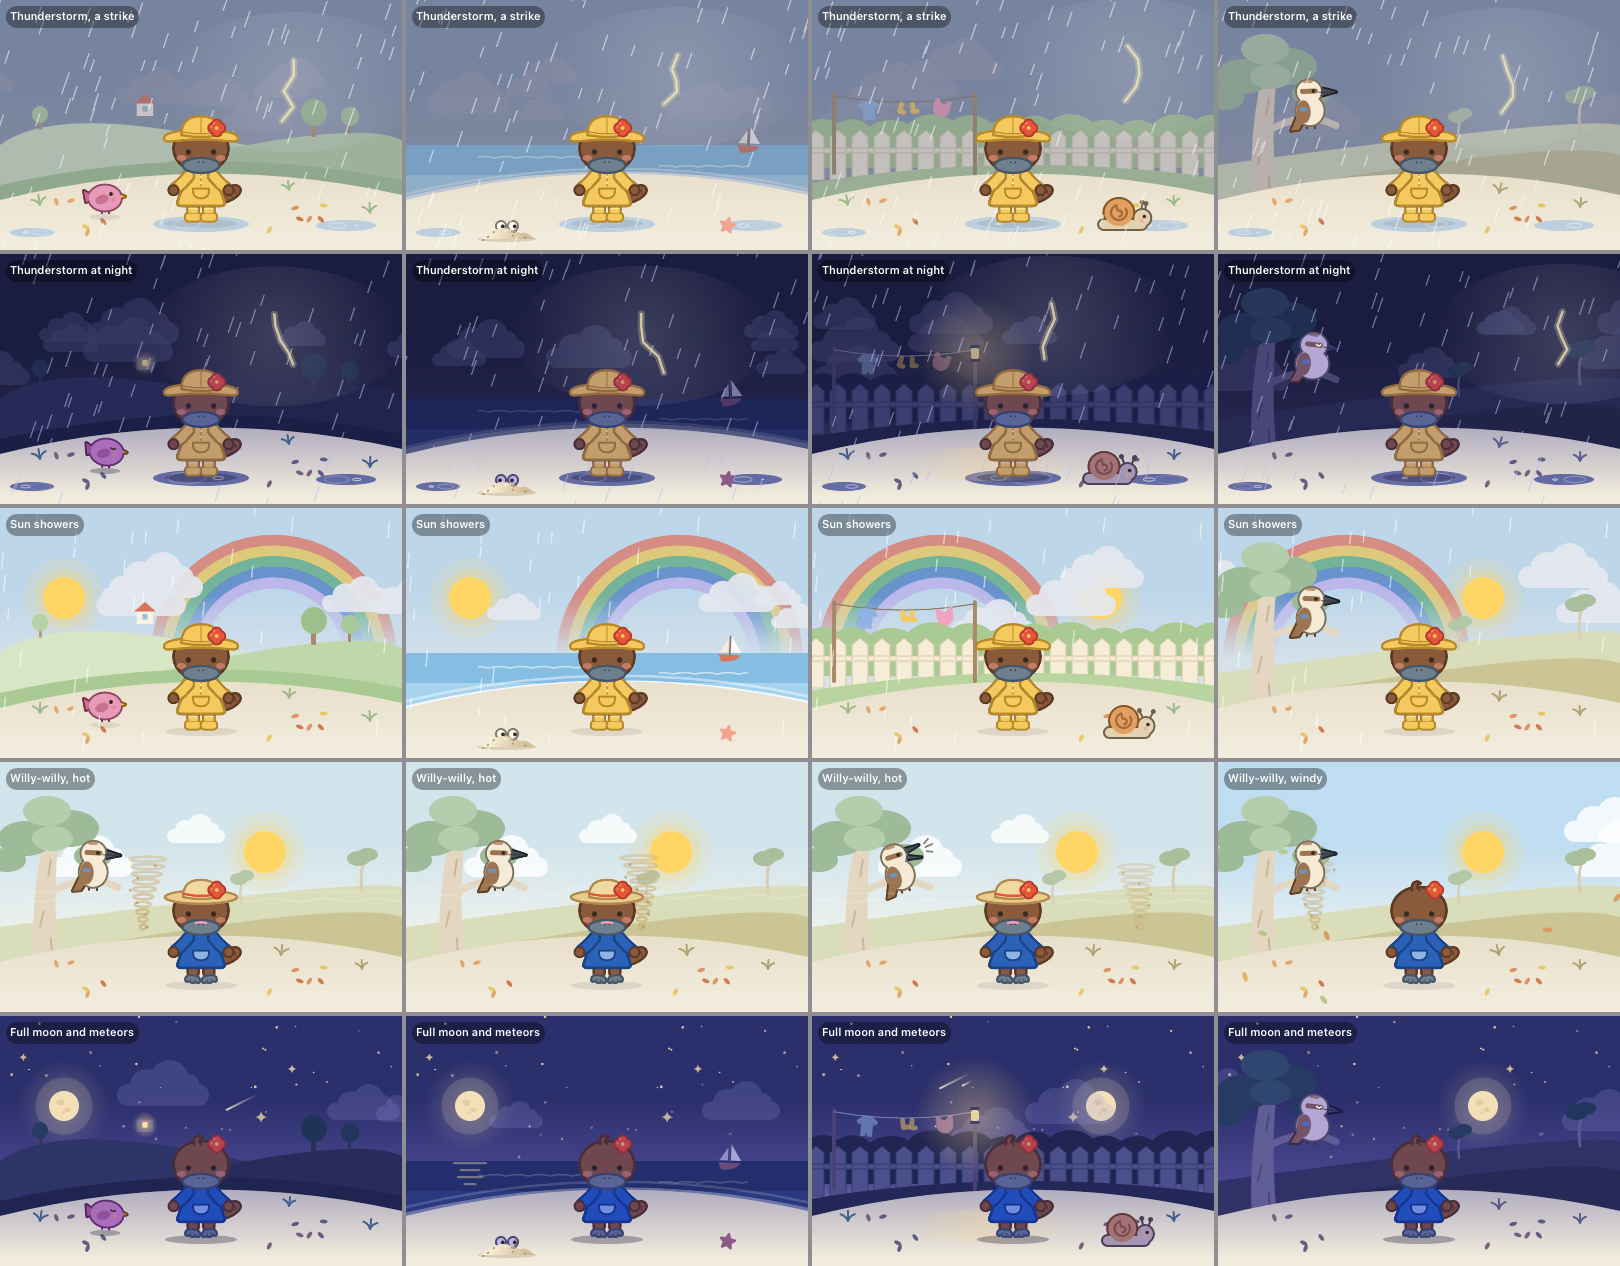
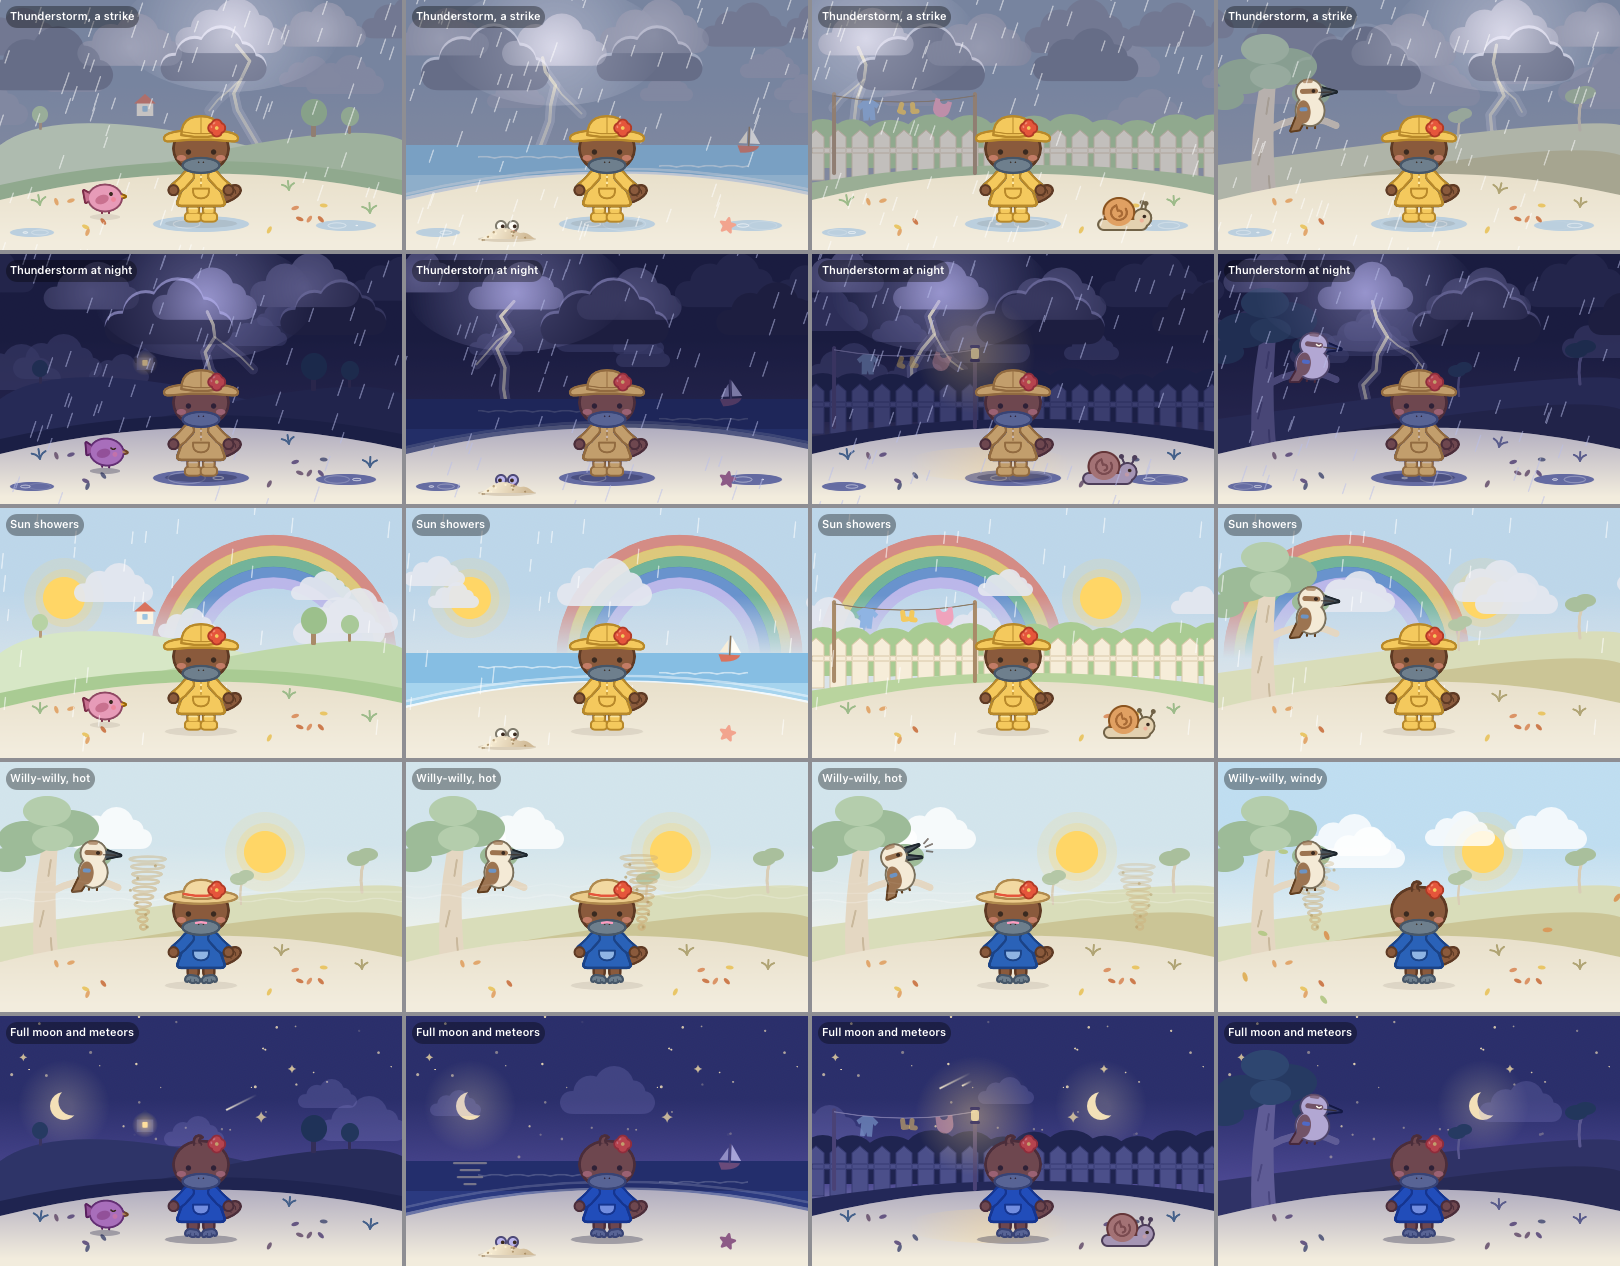
Lightning, second pass: storm clouds in layers that light up, a bolt from under them with a fork

diff --git a/app/Puggle/Design/Weather.swift b/app/Puggle/Design/Weather.swift
@@ -253,29 +253,6 @@ struct WeatherFront: View {
                     streaks.addLine(to: CGPoint(x: x - length * lean, y: y + length))
                 }
                 context.stroke(streaks, with: .color(colour), style: StrokeStyle(lineWidth: 1.4, lineCap: .round))
-                if heavy {
-                    // Lightning a long way off: a soft glow in the clouds and a small bolt in it, never a flash of the
-                    // whole screen (Tom, 17 November 2026). Each strike is in its own place and its own shape.
-                    let strike = Thunder.strike(at: t)
-                    if strike.glow > 0 {
-                        var random = SeededRandom(UInt64(strike.number) &* 7_717 &+ 13)
-                        let centre = CGPoint(x: size.width * random.range(0.58, 0.86), y: size.height - sceneHeight * random.range(0.66, 0.74))
-                        context.fill(Path(ellipseIn: CGRect(x: centre.x - 130, y: centre.y - 70, width: 260, height: 140)),
-                                     with: .radialGradient(Gradient(colors: [Color.white.opacity(strike.glow * 0.22), Color.white.opacity(0)]),
-                                                           center: centre, startRadius: 0, endRadius: 130))
-                        // The bolt: down from the cloud base to the far hills, in four zigzags.
-                        var bolt = Path()
-                        var point = CGPoint(x: centre.x, y: centre.y - 22)
-                        bolt.move(to: point)
-                        for step in 0..<4 {
-                            point = CGPoint(x: point.x + CGFloat(random.range(-11, 11)) + (step.isMultiple(of: 2) ? 5 : -5), y: point.y + CGFloat(random.range(11, 16)))
-                            bolt.addLine(to: point)
-                        }
-                        let yellow = Color(hex: 0xFFF1B8)
-                        context.stroke(bolt, with: .color(yellow.opacity(strike.glow * 0.35)), style: StrokeStyle(lineWidth: 7, lineCap: .round, lineJoin: .round))
-                        context.stroke(bolt, with: .color(yellow.opacity(strike.glow)), style: StrokeStyle(lineWidth: 2.4, lineCap: .round, lineJoin: .round))
-                    }
-                }
             case .snow:
                 for i in 0..<64 {
                     var random = SeededRandom(UInt64(i) &* 6151 &+ 3)
@@ -331,22 +308,187 @@ struct WeatherFront: View {
 /// When the far-off lightning strikes in a thunderstorm, so the scene and Puggle keep the same time.
 enum Thunder {
     static let every = 8.5
-    /// Lightning flickers for this long.
-    static let length = 0.5
+    /// A strike flickers for this long: a bright stroke, a dip, and a second stroke down the same path.
+    static let length = 0.55
+    /// Halfway between strikes, lightning inside a cloud lights it without a bolt.
+    static let sheetAt = 4.6
+    static let sheetLength = 0.4
 
     /// Which strike this is, and how bright it is now, 0 to 1.
     static func strike(at t: Double) -> (number: Int, glow: Double) {
         let number = Int((t / every).rounded(.down))
         let since = t - Double(number) * every
-        guard since < length else { return (number, 0) }
-        // A quick flicker: bright, a dip, bright again.
-        let shape = sin(since / length * .pi)
-        let flicker = since < length * 0.45 ? 1 : 0.55 + 0.45 * sin((since - length * 0.45) * 40)
-        return (number, max(0, shape * flicker))
+        return (number, pulses(since))
+    }
+
+    /// The flash inside a cloud between strikes, 0 to 1, and which one it is.
+    static func sheet(at t: Double) -> (number: Int, glow: Double) {
+        let number = Int((t / every).rounded(.down))
+        let since = t - Double(number) * every - sheetAt
+        guard since >= 0, since < sheetLength else { return (number, 0) }
+        return (number, 0.55 * sin(since / sheetLength * .pi) * (0.8 + 0.2 * sin(since * 50)))
+    }
+
+    /// Two quick strokes: up fast, down a little slower, then again a touch fainter.
+    static func pulses(_ since: Double) -> Double {
+        func pulse(_ at: Double, _ peak: Double, _ width: Double) -> Double {
+            let x = since - at
+            guard x >= 0, x < width else { return 0 }
+            let rise = width * 0.2
+            return peak * (x < rise ? x / rise : 1 - (x - rise) / (width - rise))
+        }
+        return min(1, pulse(0, 1, 0.22) + pulse(0.28, 0.8, 0.27))
     }
 
     /// Seconds from `t` to the next strike.
     static func untilNext(after t: Double) -> Double {
         every - t.truncatingRemainder(dividingBy: every)
+    }
+}
+
+/// The thunderstorm's own sky (second pass, 17 November 2026): a bank of storm clouds high up, lower clouds in
+/// front of it, and lightning. A strike lights its cloud from inside and the clouds near it on their edges; the bolt
+/// comes out from under the cloud and strikes behind the far hills, with a fork. Between strikes a cloud lights
+/// up on its own now and then, with no bolt. Nothing lights the whole screen.
+struct StormSky: View {
+    let night: Bool
+    let t: Double
+    /// The light alone, drawn again above the grey that dims the far scenery, so a flash is bright. The clouds
+    /// and the bolt are drawn once, underneath, so the bolt stays behind the hills.
+    var lightOnly = false
+
+    var body: some View {
+        Canvas { context, size in
+            let w = size.width, h = size.height
+            let strike = Thunder.strike(at: t)
+            let sheet = Thunder.sheet(at: t)
+            // The bank: five clouds across the top, drifting slowly. The near layer: three lower, wider ones.
+            let drift = CGFloat(t * 2.2)
+            func place(_ i: Int, layer: Int) -> CGRect {
+                var random = SeededRandom(UInt64(i) &* 3_571 &+ UInt64(layer) &* 97 &+ 11)
+                let width = CGFloat(layer == 0 ? random.range(84, 120) : random.range(96, 136))
+                let span = w + width
+                let x = (CGFloat(i) / CGFloat(layer == 0 ? 5 : 3) * span + CGFloat(random.range(0, 30)) + drift * (layer == 0 ? 1 : 1.6))
+                    .truncatingRemainder(dividingBy: span) - width / 2
+                // High up, so the sky under them is clear for the bolt.
+                let y = h * CGFloat(layer == 0 ? random.range(-0.02, 0.06) : random.range(0.1, 0.15))
+                return CGRect(x: x - width / 2, y: y, width: width, height: width * 0.5)
+            }
+            let bank = (0..<5).map { place($0, layer: 0) }
+            let near = (0..<2).map { place($0, layer: 1) }
+
+            // Which cloud each flash is in: one well on screen.
+            func pick(_ number: Int, salt: UInt64) -> Int {
+                var random = SeededRandom(UInt64(max(number, 0)) &* 7_717 &+ salt)
+                let start = Int(random.range(0, 5))
+                for step in 0..<5 {
+                    let index = (start + step) % 5
+                    if bank[index].midX > w * 0.12 && bank[index].midX < w * 0.88 { return index }
+                }
+                return start
+            }
+            let struck = pick(strike.number, salt: 13)
+            let sheeted = pick(strike.number, salt: 71)
+
+            let dark = Color(hex: night ? 0x2B2D58 : 0x7C8299)
+            let darker = Color(hex: night ? 0x222348 : 0x6A7089)
+            let lit = Color(hex: night ? 0xB4B0EE : 0xF3F1FF)
+            let bolt = Color(hex: 0xFFF6D6)
+
+            // How lit a cloud is: full for the one the flash is in, less with distance.
+            func light(_ rect: CGRect) -> Double {
+                var amount = 0.0
+                if strike.glow > 0 {
+                    let d = hypot(rect.midX - bank[struck].midX, rect.midY - bank[struck].midY)
+                    amount = max(amount, strike.glow * max(0, 1 - Double(d / (w * 0.42))))
+                }
+                if sheet.glow > 0 {
+                    let d = hypot(rect.midX - bank[sheeted].midX, rect.midY - bank[sheeted].midY)
+                    amount = max(amount, sheet.glow * max(0, 1 - Double(d / (w * 0.3))))
+                }
+                return amount
+            }
+
+            // A soft light in the sky behind the flash.
+            for (index, glow) in [(struck, strike.glow), (sheeted, sheet.glow * 0.7)] where glow > 0 {
+                let centre = CGPoint(x: bank[index].midX, y: bank[index].midY + 6)
+                context.fill(Path(ellipseIn: CGRect(x: centre.x - 110, y: centre.y - 60, width: 220, height: 120)),
+                             with: .radialGradient(Gradient(colors: [lit.opacity(0.45 * glow), lit.opacity(0)]), center: centre, startRadius: 0, endRadius: 110))
+            }
+
+            // The bolt, behind its cloud, so it comes out of the underside; it ends behind the far hills.
+            if strike.glow > 0 {
+                var random = SeededRandom(UInt64(max(strike.number, 0)) &* 4_409 &+ 3)
+                let cloud = bank[struck]
+                var point = CGPoint(x: cloud.midX + CGFloat(random.range(-12, 12)), y: cloud.maxY - 8)
+                let ground = h * CGFloat(random.range(0.56, 0.62))
+                var main = Path()
+                main.move(to: point)
+                var joints: [CGPoint] = []
+                let steps = 6
+                for step in 0..<steps {
+                    let down = (ground - point.y) / CGFloat(steps - step)
+                    point = CGPoint(x: point.x + CGFloat(random.range(-14, 14)), y: point.y + down * CGFloat(random.range(0.8, 1.15)))
+                    main.addLine(to: point)
+                    joints.append(point)
+                }
+                // A fork from partway down, thinner and fading out.
+                var fork = Path()
+                var branch = joints[1]
+                fork.move(to: branch)
+                let side: CGFloat = random.unit() < 0.5 ? -1 : 1
+                for _ in 0..<3 {
+                    branch = CGPoint(x: branch.x + side * CGFloat(random.range(6, 14)), y: branch.y + CGFloat(random.range(8, 14)))
+                    fork.addLine(to: branch)
+                }
+                let joins = StrokeStyle(lineWidth: 1, lineCap: .round, lineJoin: .round)
+                var wide = joins; wide.lineWidth = 10
+                var core = joins; core.lineWidth = 3.2
+                var thin = joins; thin.lineWidth = 1.8
+                if lightOnly {
+                    // Bright where it leaves the cloud, fading into the rain before it reaches the hills, so the
+                    // part behind them is only ever the dimmer one underneath.
+                    let fade = { (strength: Double) in
+                        GraphicsContext.Shading.linearGradient(Gradient(colors: [bolt.opacity(strength), bolt.opacity(0)]),
+                                                               startPoint: CGPoint(x: 0, y: cloud.maxY), endPoint: CGPoint(x: 0, y: h * 0.46))
+                    }
+                    context.stroke(main, with: fade(strike.glow), style: core)
+                    context.stroke(fork, with: fade(0.75 * strike.glow), style: thin)
+                } else {
+                    context.stroke(main, with: .color(lit.opacity(0.45 * strike.glow)), style: wide)
+                    context.stroke(fork, with: .color(lit.opacity(0.3 * strike.glow)), style: wide)
+                    context.stroke(main, with: .color(bolt.opacity(strike.glow)), style: core)
+                    context.stroke(fork, with: .color(bolt.opacity(0.75 * strike.glow)), style: thin)
+                }
+            }
+
+            // The bank, each cloud lit from inside by however near the flash is.
+            for rect in bank {
+                let path = CloudShape().path(in: rect)
+                if !lightOnly { context.fill(path, with: .color(dark)) }
+                let amount = light(rect)
+                if amount > 0 {
+                    // Brightest in the middle, as if the light is inside it.
+                    context.fill(path, with: .radialGradient(Gradient(colors: [lit.opacity(amount), lit.opacity(amount * 0.35)]),
+                                                             center: CGPoint(x: rect.midX, y: rect.midY + rect.height * 0.15),
+                                                             startRadius: 0, endRadius: rect.width * 0.55))
+                }
+            }
+            // The near clouds, darker, caught along their tops by the light behind them.
+            for rect in near {
+                let path = CloudShape().path(in: rect)
+                let amount = light(rect)
+                if lightOnly {
+                    // Only the rim that shows above the cloud.
+                    if amount > 0 {
+                        context.fill(path.offsetBy(dx: 0, dy: -3).subtracting(path), with: .color(lit.opacity(min(1, amount * 1.3))))
+                    }
+                } else {
+                    // The near cloud hides the bank's light where it is in front of it.
+                    context.fill(path, with: .color(darker))
+                }
+            }
+        }
+        .allowsHitTesting(false)
     }
 }

diff --git a/app/Puggle/Features/Family/SceneGallery.swift b/app/Puggle/Features/Family/SceneGallery.swift
@@ -424,6 +424,29 @@ struct SceneGalleryView: View {
         save(sheet, as: name, scale: 1)
     }
 
+    /// A thunderstorm strike frame by frame, by day and at night, then the flash inside a cloud between strikes.
+    @MainActor static func writeStormStrip(name: String) {
+        let moments: [(String, Double)] = [("Before", -0.3), ("0.03 s", 0.03), ("0.1 s", 0.1), ("0.2 s", 0.2), ("0.33 s", 0.33), ("0.45 s", 0.45),
+                                            ("Between", Thunder.sheetAt + 0.2)]
+        let sheet = VStack(spacing: 4) {
+            ForEach([(SceneKind.hills, 13), (.beach, 22), (.bush, 13)], id: \.0.rawValue) { kind, hour in
+                HStack(spacing: 4) {
+                    ForEach(Array(moments.enumerated()), id: \.offset) { _, moment in
+                        SceneFrame(kind: kind, dark: false, hourOverride: hour, t: Thunder.every * Double(5 + kind.rawValue * 2) + moment.1, weather: .storm)
+                            .frame(width: 300, height: PuggleHeader.sceneHeight)
+                            .clipped()
+                            .overlay(alignment: .topLeading) {
+                                Text(moment.0).font(.caption2.weight(.semibold)).padding(4)
+                                    .background(.black.opacity(0.35), in: Capsule()).foregroundStyle(.white).padding(6)
+                            }
+                    }
+                }
+            }
+        }
+        .background(Color.gray)
+        save(sheet, as: name, scale: 1)
+    }
+
     @MainActor private static func save(_ view: some View, as name: String, scale: CGFloat = 2) {
         let renderer = ImageRenderer(content: view)
         renderer.scale = scale

diff --git a/app/Puggle/Design/Scenes.swift b/app/Puggle/Design/Scenes.swift
@@ -223,6 +223,8 @@ struct SceneFrame: View {
                             .opacity(appeared ? 1 : 0)
                     }
                     clouds(w, h)
+                    // A thunderstorm's clouds and lightning, behind the far scenery so a bolt strikes behind the hills.
+                    if weather == .storm { StormSky(night: starry, t: t).frame(width: w, height: h).opacity(appeared ? 1 : 0) }
                     scenery(w, h)
                     if kind == .bush && !starry && (weather == .hot || weather == .windy) {
                         // A willy-willy spinning across the far paddock now and then.
@@ -230,6 +232,7 @@ struct SceneFrame: View {
                     }
                     // The same light falls on the far scenery, or it would glow under a dark sky.
                     if weather.overcast, let wash = weather.skyWash(night: starry) { wash.opacity(0.55) }
+                    if weather == .storm { StormSky(night: starry, t: t, lightOnly: true).frame(width: w, height: h).opacity(appeared ? 1 : 0) }
                     WeatherBehind(weather: weather, night: starry, t: t)
                     ground
                     WeatherGround(weather: weather, night: starry, t: t)

diff --git a/app/Puggle/App/PuggleApp.swift b/app/Puggle/App/PuggleApp.swift
@@ -216,6 +216,7 @@ struct RootView: View {
                     SceneGalleryView.writeSeasons(name: "seasons.png")
                     // Set "-debugMoon full -debugMeteors 1" for the night row.
                     SceneGalleryView.writeSkyEvents(name: "sky-events.png")
+                    SceneGalleryView.writeStormStrip(name: "storm-strip.png")
                     SceneGalleryView.writeStrip(move: "splash", seconds: 1.3, every: 0.1, name: "strip-splash.png")
                     SceneGalleryView.writeDrawingStyles(name: "drawing.png")
                     SceneGalleryView.writeLineStyles(name: "lines.png")

diff --git a/docs/baby-tracker-spec.md b/docs/baby-tracker-spec.md
@@ -2252,3 +2252,20 @@ and `docs/previews/scenes/seasons.png`.
   `sky-events.png`. 110 tests pass, three new (the moon, the meteor nights, the lightning's timing).
 - Not seen moving or on a phone: the pictures are single frames. Puggle's duck after a strike is untested
   in the running app.
+
+**Lightning, second pass (17 November 2026).** Tom felt the bolts could look better, with clouds in layers that
+light up. Drawn in `docs/previews/scenes/storm-strip.png` (frame by frame) and `thunderstorm.gif` (moving).
+
+- A thunderstorm now has its own sky (`StormSky`): a bank of storm clouds high up, drifting, and two lower,
+  darker clouds in front of it.
+- A strike lights its cloud from inside, brightest in the middle, and the clouds near it less. The near clouds
+  catch the light along their tops, as a rim.
+- The bolt comes out from under its cloud and strikes behind the far hills, with a thinner fork partway down.
+  It's bright where it leaves the cloud and fades into the rain lower down.
+- Each strike is two quick strokes down the same path, the second a touch fainter.
+- Halfway between strikes, a cloud lights up on its own with no bolt.
+- The light is drawn twice: once with the clouds, and again above the grey that dims the far scenery, so a flash
+  is bright without anything lighting the whole screen.
+- 110 tests pass. Not seen on a phone. Puggle's duck after a strike is still untested in the running app,
+  because the simulator ignored the launch settings this session (Today opened with no family). That needs a
+  look.
